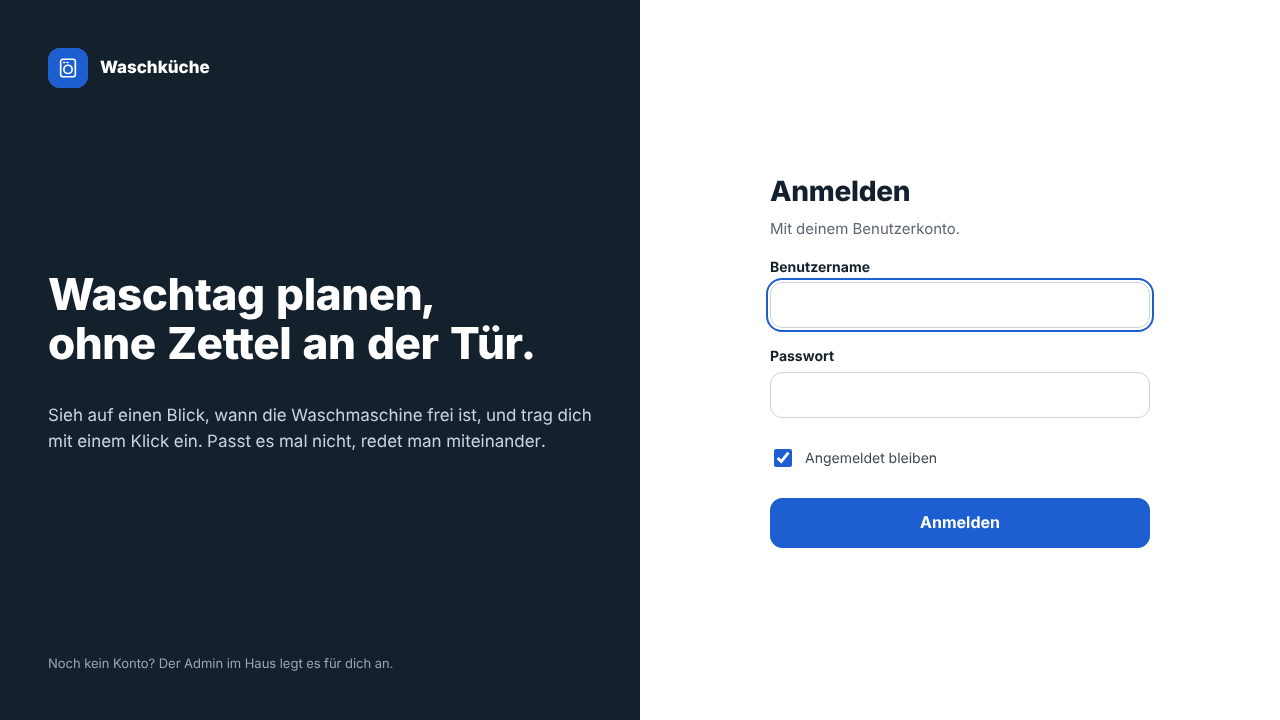
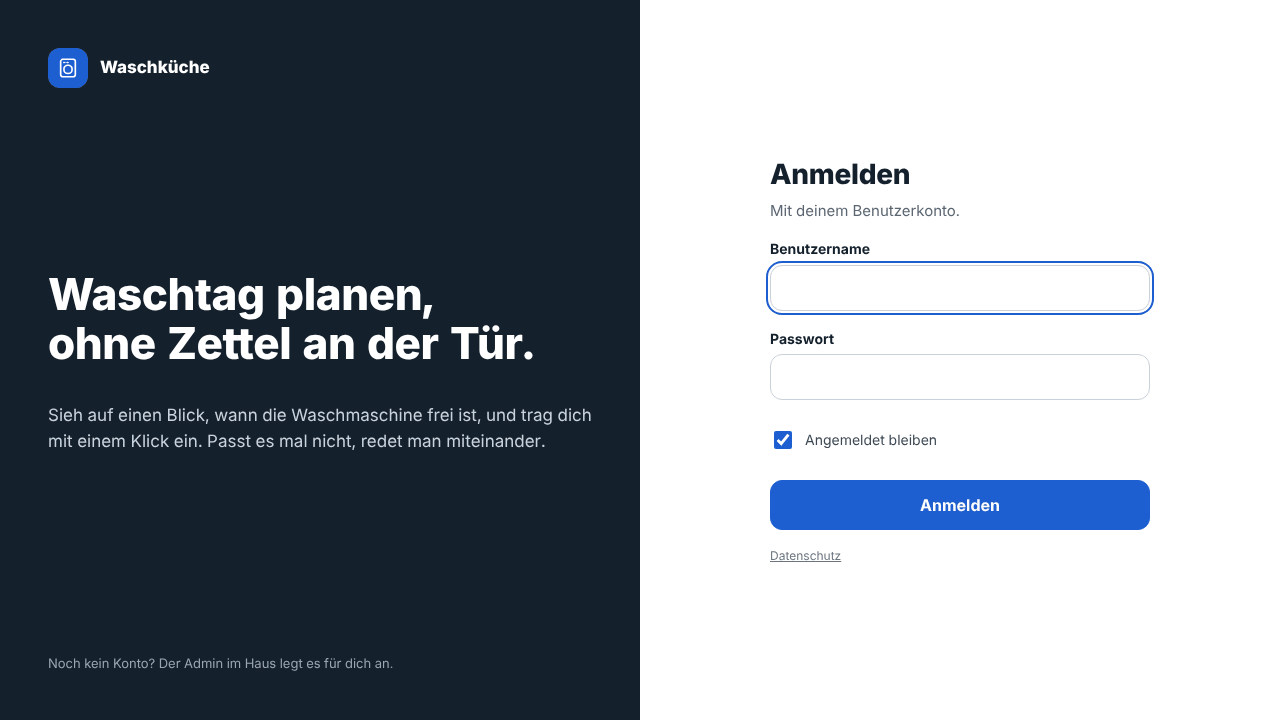
Link the privacy notice from the help page, retake screenshots
The privacy page from main is mentioned in the profile section of the
help. The README screenshots show the new Datenschutz link in the footer
and on the login page.

Claude-Session: https://claude.ai/code/session_011iFZoCGnFFVfjj6KDcVSL6

Changed region(s): [[0.5938, 0.5806, 0.9062, 0.7944], [0.5938, 0.2139, 0.9062, 0.3972], [0.5938, 0.4278, 0.9062, 0.5194]]

diff --git a/laundry/templates/help.html b/laundry/templates/help.html
@@ -136,6 +136,8 @@
     {% else %}
     <p class="hint">Passwort vergessen? Ein Admin setzt dir ein neues Passwort.</p>
     {% endif %}
+    <p class="hint">Welche Daten die App speichert, wer sie sieht und wie lange sie aufbewahrt werden, steht unter
+      <a href="{{ url_for('privacy') }}">Datenschutz</a> (Link ganz unten auf jeder Seite).</p>
   </section>
 </div>
 {% endblock %}

diff --git a/tests/test_help.py b/tests/test_help.py
@@ -12,6 +12,7 @@ def test_help_page(client, login):
     assert 'bis 4 Wochen im Voraus' in html
     assert 'Auf der Anmeldeseite unter «Passwort vergessen?»' in html  # mail is configured in the tests
     assert 'Als Admin' not in html
+    assert 'href="/privacy">Datenschutz</a> (Link ganz unten' in html
 
 
 def test_help_link_in_navigation(client, login):
